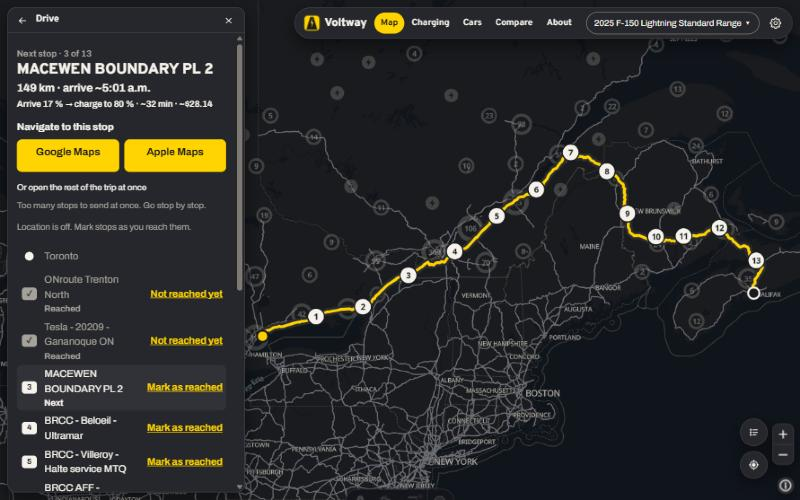
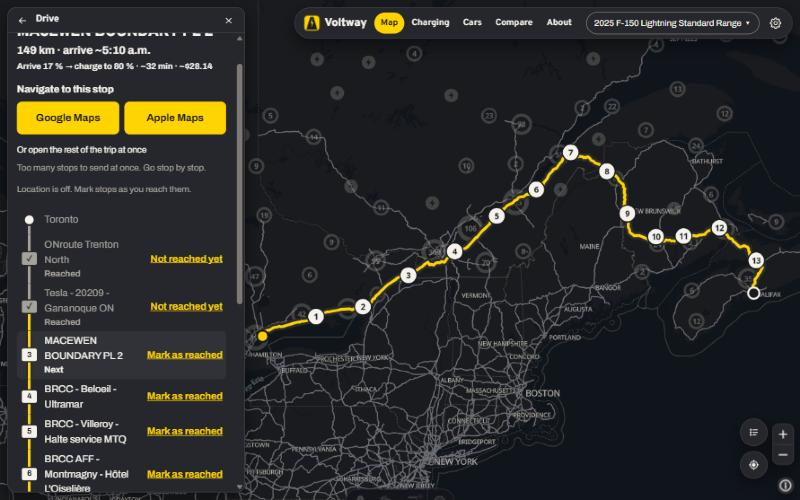
Phase 5: B75 charge past 80 % before a long stretch; QA fixes; driven line colour
- trip-plan: a stop charges just enough to reach the first charger past a stretch
  (or the destination) when 80 % would only allow a short hop or leave no reachable
  charger, up to 100 % (owner B75, 2026-11-18); tests and docs.
- Close route / Escape ends Drive; location note wording; whole-trip limits from
  WHOLE_TRIP_MAX; Drive follows price changes; resumed ticks trimmed; apostrophe.
- Driven stop line #A4A29A in both themes (was 1.8:1 in light).

diff --git a/src/lib/trip-plan.ts b/src/lib/trip-plan.ts
@@ -178,24 +178,47 @@ export function planTrip(input: PlanInput): TripPlan {
   const arrival = (c: Candidate, fromKm: number, soc: number) => socAt(fromKm, soc, c.alongKm) - flatDrop(c.offKm);
   const best = (list: Candidate[]) => list.sort((a, b) => b.usableKw - a.usableKw || b.alongKm - a.alongKm)[0];
 
+  /** The next stop from `pos` with `soc`: in the window near the route, then wider, then the last earlier charger. */
+  const choose = (pos: number, soc: number): { chosen: Candidate | undefined; pick: StopPick; hitKm: number } => {
+    const hitKm = kmWhere(pos, soc, threshold);
+    const ahead = candidates.filter((c) => c.alongKm > pos + MIN_PROGRESS_KM && c.alongKm <= hitKm);
+    const inWindow = (c: Candidate) => { const a = arrival(c, pos, soc); return a >= threshold && a <= threshold + WINDOW_SOC; };
+    const usable = (c: Candidate) => arrival(c, pos, soc) >= threshold && arrival(c, pos, soc) < target;
+    let chosen = best(ahead.filter((c) => c.offKm <= NEAR_KM && inWindow(c)));
+    if (chosen) return { chosen, pick: 'window', hitKm };
+    chosen = best(ahead.filter((c) => inWindow(c)));
+    if (chosen) return { chosen, pick: 'wide', hitKm };
+    return { chosen: ahead.filter(usable).sort((a, b) => b.alongKm - a.alongKm)[0], pick: 'earlier', hitKm };
+  };
+
+  /**
+   * How full to leave a stop (B75, owner 2026-11-18). Normally 80 % (Q-V2). But when 80 % wouldn't
+   * reach the next charger in the usual window (only a short hop to a nearby charger, or a stretch
+   * with no charger the car can reach), charge just enough to reach the first charger past that
+   * stretch, or the destination, with the threshold left, up to 100 %.
+   */
+  const departFrom = (c: Candidate): number => {
+    const back = flatDrop(c.offKm);
+    const after = target - back;
+    if (socAt(c.alongKm, after, route.totalKm) >= threshold) return target;
+    const next = choose(c.alongKm, after);
+    if (next.chosen && next.pick !== 'earlier') return target;
+    const beyond = candidates.filter((x) => x.alongKm > next.hitKm).sort((a, b) => a.alongKm - b.alongKm)[0];
+    const toKm = beyond ? beyond.alongKm : route.totalKm;
+    const need = threshold + socDrop(car.energy, kwhAt(toKm) - kwhAt(c.alongKm)) + back + (beyond ? flatDrop(beyond.offKm) : 0);
+    return Math.min(100, Math.max(target, Math.ceil(need)));
+  };
+
   const stops: TripStop[] = [];
   const gaps: ChargingGap[] = [];
   let pos = 0, soc = start, reachable = true;
 
   for (let guard = 0; guard < 200; guard++) {
     if (socAt(pos, soc, route.totalKm) >= threshold) break;
-    const hitKm = kmWhere(pos, soc, threshold);
-    const ahead = candidates.filter((c) => c.alongKm > pos + MIN_PROGRESS_KM && c.alongKm <= hitKm);
-    const inWindow = (c: Candidate) => { const a = arrival(c, pos, soc); return a >= threshold && a <= threshold + WINDOW_SOC; };
-    const usable = (c: Candidate) => arrival(c, pos, soc) >= threshold && arrival(c, pos, soc) < target;
-
-    let pick: StopPick = 'window';
-    let chosen = best(ahead.filter((c) => c.offKm <= NEAR_KM && inWindow(c)));
-    if (!chosen) { pick = 'wide'; chosen = best(ahead.filter((c) => inWindow(c))); }
-    if (!chosen) {
-      pick = 'earlier';
-      chosen = ahead.filter(usable).sort((a, b) => b.alongKm - a.alongKm)[0];
-    }
+    const next = choose(pos, soc);
+    const hitKm = next.hitKm;
+    let pick: StopPick = next.pick;
+    let chosen = next.chosen;
     if (!chosen) {
       // Charging gap: nothing reachable before the threshold. Mark it, then carry on to the next charger past it.
       pick = 'afterGap';
@@ -209,7 +232,8 @@ export function planTrip(input: PlanInput): TripPlan {
     const arriveSoc = arrival(chosen, pos, soc);
     if (arriveSoc <= 0) reachable = false;
     const fromSoc = Math.max(0, arriveSoc);
-    const r = calculateCharge({ points: car.curve.points, usableKwh: car.energy.batteryKwh, startSoc: fromSoc, endSoc: target, chargerKw: chosen.usableKw });
+    const departSoc = Math.max(departFrom(chosen), Math.min(100, Math.ceil(fromSoc)));
+    const r = calculateCharge({ points: car.curve.points, usableKwh: car.energy.batteryKwh, startSoc: fromSoc, endSoc: departSoc, chargerKw: chosen.usableKw });
     const detourKm = 2 * chosen.offKm;
     const p = chosen.station.properties;
     stops.push({
@@ -225,7 +249,7 @@ export function planTrip(input: PlanInput): TripPlan {
       adapter: chosen.adapter,
       teslaNetwork: !car.isTesla && p.nw === SUPERCHARGER_NETWORK,
       arriveSoc,
-      departSoc: target,
+      departSoc,
       chargeMin: r.minutes,
       energyKwh: r.energyKwh,
       overheadMin: TRIP.stopOverheadMin,
@@ -234,7 +258,7 @@ export function planTrip(input: PlanInput): TripPlan {
     });
     // Back to the route with the way back taken off.
     pos = chosen.alongKm;
-    soc = target - flatDrop(chosen.offKm);
+    soc = departSoc - flatDrop(chosen.offKm);
   }
 
   const arriveSoc = socAt(pos, soc, route.totalKm);

diff --git a/src/styles/global.css b/src/styles/global.css
@@ -712,18 +712,34 @@ html[data-motion="off"] .chip-plug .switch::after, html[data-motion="off"] .sett
 .drive-go, .drive-whole { display: grid; gap: 8px; }
 .drive-go-title { font-weight: 700; }
 .drive-apps { display: grid; grid-template-columns: repeat(auto-fit, minmax(130px, 1fr)); gap: 8px; }
-.drive-app { display: inline-flex; align-items: center; justify-content: center; min-height: 52px; font-size: 1.05rem; text-decoration: none; text-align: center; }
-.drive-whole .drive-app { min-height: 44px; font-size: 0.95rem; }
-.drive-list { list-style: none; margin: 0; padding: 0; display: grid; gap: 2px; }
-.drive-item { display: grid; grid-template-columns: 28px minmax(0, 1fr) auto; align-items: center; gap: 10px; min-height: 44px; padding: 2px 6px; border-radius: 8px; }
+/* Two-class selector: `a.btn` (inline-block) would otherwise win and leave the label at the top. */
+.drive-apps .drive-app { display: flex; align-items: center; justify-content: center; gap: 8px; min-height: 52px; padding: 0 12px; font-size: 1.05rem; line-height: 1.2; text-decoration: none; text-align: center; }
+.drive-whole .drive-apps .drive-app { min-height: 44px; font-size: 0.95rem; }
+.drive-app svg { flex: none; }
+.drive-list { list-style: none; margin: 0; padding: 0; display: grid; }
+.drive-item { position: relative; display: grid; grid-template-columns: 28px minmax(0, 1fr) auto; align-items: center; gap: 10px; min-height: 48px; padding: 4px 6px; border-radius: 8px; }
+/* The painted line joins the stops like a transit map (the trip list's road band and centre line):
+   each row carries its piece, from the row above's mark to the next one. Driven parts turn grey. */
+.drive-item::before { content: ""; position: absolute; left: 15px; top: 0; bottom: 0; width: 10px; border-radius: 2px;
+  background: linear-gradient(to right, var(--band) 0 3px, var(--paint) 3px 7px, var(--band) 7px 10px); }
+.drive-item:first-child::before { top: 50%; }
+.drive-item:last-child::before { bottom: 50%; }
+/* A row's top half leads into its mark, the bottom half out of it: grey once the stop at the far end is reached. */
+/* The band is dark in both themes, so the driven line is one light grey (#A4A29A on #2B2C30 is 6.4:1). */
+.drive-item { --line-driven: #A4A29A; --driven: linear-gradient(to right, var(--band) 0 3px, var(--line-driven) 3px 7px, var(--band) 7px 10px); --ahead: linear-gradient(to right, var(--band) 0 3px, var(--paint) 3px 7px, var(--band) 7px 10px); }
+.drive-item.done::before { background: var(--driven) top / 100% 50% no-repeat, var(--ahead) bottom / 100% 50% no-repeat; }
+.drive-item.done:has(+ .drive-item.done)::before, .drive-item:first-child:has(+ .drive-item.done)::before { background: var(--driven); }
+.drive-item:first-child:not(:has(+ .drive-item.done))::before { background: var(--ahead); }
+.drive-item > * { position: relative; z-index: 1; }
 .drive-item.next { background: var(--surface-2); }
 .drive-item.done .drive-item-name { color: var(--muted); }
 .drive-item-name { overflow-wrap: anywhere; }
 .drive-state { display: block; color: var(--muted); font-weight: 600; }
 .drive-item.next .drive-state { color: var(--text); }
-.drive-mark { justify-self: center; width: 14px; height: 14px; border-radius: 50%; background: var(--mark); }
+.drive-mark { justify-self: center; width: 14px; height: 14px; border-radius: 50%; background: var(--mark); border: 3px solid var(--surface); box-sizing: content-box; }
+.drive-item.next .drive-mark { border-color: var(--surface-2); }
 .drive-item.end .drive-mark { background: var(--surface); box-shadow: inset 0 0 0 4px var(--mark); }
-.drive-num { display: grid; place-items: center; width: 24px; height: 20px; border-radius: 5px; color: var(--surface); font-weight: 700; font-size: 0.8rem; font-variant-numeric: tabular-nums; }
+.drive-num { display: grid; place-items: center; width: 24px; height: 20px; border-radius: 5px; border-width: 2px; color: var(--surface); font-weight: 700; font-size: 0.8rem; font-variant-numeric: tabular-nums; }
 .drive-item.done .drive-num { background: var(--muted); }
 .drive-toggle { min-height: 44px; white-space: nowrap; }
 .drive-notes { display: grid; gap: 6px; }

diff --git a/src/components/DriveView.tsx b/src/components/DriveView.tsx
@@ -3,17 +3,17 @@
 // page is open. No turn-by-turn in Voltway (R7). Location is watched only while this view is open
 // and the page is visible, and is never stored; the screen is kept awake with a Wake Lock.
 
-import { useEffect, useMemo, useRef, useState } from 'react';
+import { useEffect, useRef, useState } from 'react';
 import { t } from '../i18n/t.ts';
 import type { TripEnd } from '../lib/place-search.ts';
 import type { Route } from '../lib/route-geo.ts';
 import type { TripPlan } from '../lib/trip-plan.ts';
 import type { RouteOptions } from '../lib/route-options.ts';
 import { nextTarget, tickReached, toTarget, type Fix } from '../lib/drive.ts';
-import { directionsUrls, wholeTripUrls } from '../lib/nav-links.ts';
+import { directionsUrls, WHOLE_TRIP_MAX, wholeTripUrls } from '../lib/nav-links.ts';
 import { pct } from '../lib/trip-format.ts';
 import { formatNumber, kmTo, type DistanceUnit } from '../lib/units.ts';
-import { chargeCost, chargePrice } from '../lib/price.ts';
+import { chargeCost, chargePrice, PRICE_EVENT } from '../lib/price.ts';
 import { COVERAGE } from '../config.ts';
 
 const money = new Intl.NumberFormat(COVERAGE.moneyLocale, { style: 'currency', currency: COVERAGE.currency });
@@ -95,7 +95,12 @@ export default function DriveView({ plan, route, from, to, unit, opts, reached, 
   const left = toTarget(plan, route, target, fix, now);
   const stop = target.kind === 'stop' ? plan.stops[target.index] : null;
   const dist = (km: number) => t(unit === 'mi' ? 'fmt.mi' : 'fmt.km', { value: formatNumber(Math.round(kmTo(km, unit))) });
-  const price = useMemo(chargePrice, []);
+  const [price, setPrice] = useState(chargePrice);
+  useEffect(() => {
+    const on = () => setPrice(chargePrice());
+    window.addEventListener(PRICE_EVENT, on);
+    return () => window.removeEventListener(PRICE_EVENT, on);
+  }, []);
   const nav = directionsUrls(target.lonLat, opts);
   const remaining = plan.stops.filter((_, i) => !reached[i]).map((s) => s.lonLat);
   const whole = remaining.length > 0 ? wholeTripUrls(remaining, end, opts) : null;
@@ -143,7 +148,7 @@ export default function DriveView({ plan, route, from, to, unit, opts, reached, 
             </div>
           ) : null}
           {(!whole.google || !whole.apple) && (
-            <p className="small muted">{!whole.google && !whole.apple ? t('drive.tooManyBoth') : !whole.google ? t('drive.tooManyGoogle') : t('drive.tooManyApple')}</p>
+            <p className="small muted">{!whole.google && !whole.apple ? t('drive.tooManyBoth') : !whole.google ? t('drive.tooManyGoogle', { max: WHOLE_TRIP_MAX.google }) : t('drive.tooManyApple', { max: WHOLE_TRIP_MAX.apple })}</p>
           )}
         </div>
       )}

diff --git a/tests/trip-plan.test.ts b/tests/trip-plan.test.ts
@@ -133,8 +133,9 @@ describe('gapDetails: a gap named by the places on either side', () => {
   });
 
   it('a gap after a stop starts at that stop', () => {
+    // S280 charges past 80 % to reach S560 (B75), so the gap is the 340 km after S560.
     const [g] = gapDetails(plan(900, [station(280, [ccs(150)]), station(560, [ccs(150)])]), 'Home', 'Away');
-    expect(g).toMatchObject({ leg: 1, fromName: 'S280', toName: 'S560', makesIt: true });
+    expect(g).toMatchObject({ leg: 2, fromName: 'S560', toName: 'Away', makesIt: true });
   });
 
   it('says when the car is not expected to make it', () => {
@@ -236,5 +237,29 @@ describe('QA fixes (3.15, 2026-11-16)', () => {
     // 60 % of 80 kWh at 100 kW ≈ 28.8 min, not the 200 kW curve's 14.4 min
     expect(p.stops[0].usableKw).toBe(100);
     expect(p.stops[0].chargeMin).toBeCloseTo(28.8, 0);
+  });
+});
+
+describe('planTrip: charging past 80 % before a long stretch (B75)', () => {
+  it('charges just enough to reach the next charger instead of a short hop', () => {
+    // At 80 % the car would only hop between S250 and S260; one stop there charges for S560 instead.
+    const p = plan(700, [station(250, [ccs(150)]), station(260, [ccs(150)]), station(560, [ccs(150)])]);
+    expect(p.stops).toHaveLength(2);
+    expect(p.stops[1].station.n).toBe('S560');
+    expect(p.stops[0].departSoc).toBeGreaterThan(TRIP.chargeToSoc);
+    expect(p.stops[0].departSoc).toBeLessThanOrEqual(92);
+    expect(p.stops[1].arriveSoc).toBeGreaterThanOrEqual(TRIP.defaultThresholdSoc);
+    expect(p.stops[1].departSoc).toBe(TRIP.chargeToSoc);
+  });
+
+  it('charges to what the last stretch needs, up to 100 %', () => {
+    const p = plan(900, [station(280, [ccs(150)]), station(560, [ccs(150)])]);
+    expect(p.stops.map((s) => s.departSoc)).toEqual([86, 100]);
+  });
+
+  it('keeps 80 % when the next window is reachable', () => {
+    const p = plan(800, [station(280, [ccs(150)]), station(500, [ccs(150)])]);
+    // S280 at 80 % reaches S500 in the window; S500 then charges for the last 300 km.
+    expect(p.stops.map((s) => s.departSoc)).toEqual([TRIP.chargeToSoc, 91]); // 75 % for 300 km + 15 %, the detour, rounded up;
   });
 });

diff --git a/src/components/ChargerMap.tsx b/src/components/ChargerMap.tsx
@@ -52,7 +52,7 @@ import { fastNear, NEAR_PLACE_KM, stationsInView, type Bounds, type ListItem } f
 import PlaceField, { loadPlaces } from './PlaceField.tsx';
 import type { PlaceSearch, TripEnd } from '../lib/place-search.ts';
 import { readTripLink, stationEnd, writeTripLink } from '../lib/trip-link.ts';
-import { loadDrive } from '../lib/drive.ts';
+import { clearDrive, loadDrive } from '../lib/drive.ts';
 import { readRecent } from '../lib/recent-destinations.ts';
 import StationPanel from './StationPanel.tsx';
 import RoutePanel from './RoutePanel.tsx';
@@ -655,6 +655,7 @@ export default function ChargerMap({ cars = [] }: { cars?: IndexEntry[] }) {
   }, [T.start]); // eslint-disable-line react-hooks/exhaustive-deps
   const closeRoute = () => {
     clearTripParams();
+    clearDrive(); // closing the trip (button or Escape) ends Drive for this tab
     // B69: the camera goes back to where it was before the trip, while the line draws back.
     const back = preTripView.current;
     preTripView.current = null;

diff --git a/src/components/RoutePanel.tsx b/src/components/RoutePanel.tsx
@@ -83,7 +83,7 @@ export default function RoutePanel({ trip: T, cars, myCar, search, selectedStop,
     setEditing(false);
     setSheetOpen(false);
     // A new plan starts Drive over, unless this tab is coming back to it.
-    if (resume.current) { setReached(resume.current); setDriving(true); resume.current = null; }
+    if (resume.current) { setReached(resume.current.slice(0, plan?.stops.length ?? 0)); setDriving(true); resume.current = null; }
     else { setDriving(false); setReached([]); clearDrive(); }
   }, [planKey]);
   const openDrive = () => morph(() => { setDriving(true); saveDrive({ trip, reached }); }, 'forward', 'left');

diff --git a/docs/design/gaps-and-questions.md b/docs/design/gaps-and-questions.md
@@ -150,7 +150,7 @@ The "all-in-one" idea only works if these connections are real.
 | ID | Question | Priority | Notes |
 |----|----------|----------|-------|
 | Q-V1 | ~~**Is accuracy still the headline pitch?**~~ | ✅ | **Resolved:** accuracy applies to the vehicle data. The map and routing stay simple. |
-| Q-V2 | ~~**What happens at each charging stop?**~~ | ✅ | **Resolved:** charge to 80% in v1. A user-set target comes later. |
+| Q-V2 | ~~**What happens at each charging stop?**~~ | ✅ | **Resolved:** charge to 80% in v1 (more before a long stretch with few chargers, B75 2026-11-18). A user-set target comes later. |
 | Q-V3 | ~~**How smart is stop selection?**~~ | ✅ | **Resolved:** the simple approach (threshold, then a nearby fast charger). Smart selection may come later as a toggle. |
 | Q-V4 | ~~**Winter in v1?**~~ | ✅ | **Resolved:** out of scope for v1. Later: a rough % range loss from temperature and battery chemistry. |
 
@@ -230,6 +230,7 @@ The "all-in-one" idea only works if these connections are real.
 | B72 | ~~**Drive mode: hand the trip to Google Maps and Apple Maps**~~ | ✅ | **Decided by the owner (2026-11-17):** once a trip is planned, a **Drive** view shows the next charging stop (name, distance, arrival time, the charge planned there) and the stop list with progress, with big **Navigate to this stop** buttons for Google Maps and Apple Maps (**leg by leg**, the default). The **whole trip at once** is offered only when the remaining stops fit each app's waypoint limit. While the page is open the browser's location ticks off reached stops (no background tracking) and a Wake Lock keeps the screen on. **No turn-by-turn in Voltway (R7 unchanged)**; only the planned stops travel to the map apps, not Voltway's charger pins. Narrows B53's "later Drive mode". Plan: [DESIGN-5.md](../plan/DESIGN-5.md) §1; the owner approved (2026-11-17) Apple's documented unified Maps URLs (also for the station panel), whole-trip limits Google ≤ 3 / Apple ≤ 9 remaining stops, and keeping the Drive trip in `sessionStorage` for the open tab only (an exception to B62). Updates [route-planner.md](route-planner.md). |
 | B73 | ~~**Route options: avoid tolls, avoid highways**~~ | ✅ | **Decided by the owner (2026-11-17)**, after a viability check of the ORS docs: Settings gets **Avoid tolls** and **Avoid highways** switches (off by default, kept in the browser). They travel through `/api/route` (validated by the function) to ORS `avoid_features` (`tollways`, `highways` = motorways). Charging stops still come from chargers near the route line. Apple Maps links carry the same avoid choices; Google's URL API has no avoid option. Plan: [DESIGN-5.md](../plan/DESIGN-5.md) §2. Updates [route-planner.md](route-planner.md). |
 | B74 | ~~**Keep trips within Canada**~~ | ✅ | **Decided by the owner (2026-11-17):** Settings shows **Stay in Canada** as always on (disabled; it can't be turned off for now). Every route is asked with ORS `avoid_borders: "all"`, and a start or destination outside Canada gets "Trips outside Canada aren't supported yet" instead of a trip, checked by the function against a Canada outline before any ORS call (Natural Earth Admin 0, public domain, approved 2026-11-17). Address search was already limited to Canada (`boundary.country=CA`). Plan: [DESIGN-5.md](../plan/DESIGN-5.md) §2.3. Updates [route-planner.md](route-planner.md). |
+| B75 | ~~**Charge past 80 % before a long stretch**~~ | ✅ | **Decided by the owner (2026-11-18):** a stop still charges to **80 %** by default, but when 80 % would only reach a short hop to a nearby charger, or would leave a stretch with no charger the car can reach, it charges **just enough to reach the first charger past that stretch (or the destination) with the arrival minimum left**, up to 100 %. Prompted by Hamilton → BC in a 2025 Polestar 2: two stops in a row (78 → 80 % then 80 → 4 %) instead of one stop to about 95 %. Changes Q-V2. Updates [route-planner.md](route-planner.md) §4, [vision.md](vision.md), [DESIGN-5.md](../plan/DESIGN-5.md) §6. |
 | B12 | ~~**Branding: Canadian or worldwide?**~~ | ✅ | **Decided by the owner (2026-11-16):** the product brand and copy are **market-neutral**, because the aim is to open up worldwide later. The **data stays Canadian for now** (NRCan list and ratings), and the site says so openly in a coverage note on every page. The current market is a single setting in the app. Source badges keep naming the regulator ("Official (Canada)"), since that is source transparency, not branding. Updates [vision.md](vision.md) and [overview.md](overview.md) §1. |
 | B11 | ~~**One screen per car, or separate pages per variant?**~~ | ✅ | **Decided by the owner (2026-11-16):** a **Charging tab** (the home page) modeled on better-dcfc-calculator: Make → Model → Year → Variant → Trim dropdowns with key figures, curve viewer, specs, trims and sources on one screen; URL updates (`/charging?car=…`). A **Cars tab** lists make → model accordions; picking a variant opens it in Charging. Separate car pages removed; old links redirect. See [database-ui.md](database-ui.md) §2, [user-flows.md](user-flows.md) §5. |
 | B10 | ~~**Usable battery unknown** (many manufacturers publish one "battery capacity" without saying gross or usable)~~ | ✅ | **Approved (2026-11-16):** when usable kWh is missing, charging maths uses the gross (total) kWh and the results are marked estimated (shown with "~", like estimated curves), with a note on the car page. See [charging-curve-viewer.md](charging-curve-viewer.md) §3. |

diff --git a/docs/plan/reports/ui-check-5.md b/docs/plan/reports/ui-check-5.md
@@ -65,3 +65,13 @@ Console: no JS errors; only network entries (stale connection resets and the two
 - (a) PASS: trip on screen, toggle Avoid tolls on: trip view returns ("Drive" button) with `/api/route?...&avoid=tolls` (2 performance entries, both transferSize 0, i.e. browser-cache hits: the combo had been fetched earlier in this browser session, so no real server call); toggle back off: trip returns, 2 more entries without `avoid` (cache hits). Note: cached combos show a pair of entries per change; a never-fetched combo showed a single entry in the earlier run. Harmless, but not literally "one".
 - (b) PASS: trip shown > back arrow ("Return to plan") > toggle an option: no new request, button reads "Plan trip", panel stays on the form, summary "Avoiding tolls · Change".
 - Console: no JS errors (network entries only). Storage cleared, viewport reset to desktop dark.
+
+## Re-check 3 (centred app buttons, painted route line; 1280 and 375, dark and light)
+Cars: F-150 Lightning Standard Range 2025 (Toronto > Halifax, 13 stops, 2 stops marked reached) and Tesla Model 3 (Toronto > Montreal). Route calls: all browser-cached (0 new server calls).
+- Button labels PASS: `.drive-app` is display:flex; text box centre vs button centre: next-stop buttons (52 px tall) dy -0.58 px, dx 0 to -0.01; whole-trip buttons (44 px tall) dy -0.13 px, dx 0. Same at 1280 and 375, dark and light. Within 1 px.
+- Line continuity PASS: rows touch with no gaps (gap 0 between all 15 .drive-item rows, 1280 and 375); each row's `::before` is absolute, left 15 px, width 10 px, centred on the mark (offset 0 px); first row's line starts at the start mark's centre (top 24 px), the last ends at the destination mark's centre (bottom 24 px, mark centre = row centre). Marks and text are position:relative, z-index 1 (drawn above the line), marks have a 3 px ring in the surface colour.
+- Greying PASS: after marking stops 1 and 2: rows = start(D) stop1(D) stop2(D) stop3(next)...: start>1 and 1>2 grey (driven gradient), stop2's row is grey above its mark and yellow below (2 gradients), 2>3 and onward yellow. Seen in all four screenshots; dark looks right (grey #A4A29A line on a dark band).
+- ISSUE 6 (LOW-MEDIUM, light theme only): the driven (grey) segments use `--muted` #55544E on the dark band #2B2C30 = about 1.8:1, so the ticked part of the line is hard to see in light mode (it reads as an almost black bar; the yellow part is clear). Suggest a lighter grey for the driven segment in light theme (e.g. the dark theme's #A4A29A, 5:1 on the band). The ticks and "Reached" text still carry the state, so not blocking.
+- No horizontal overflow (375/375, 1280/1280). On the half-open phone sheet (324 px of scroll area) the buttons and list cannot both show; the full-height sheet (tap the handle) shows both.
+- Still seen: the dark map-key pill overlapping the bottom of the sheet at 375 (issue 5 above).
+Screenshots overwritten in docs/plan/reports/phase5/: drive-375-dark.jpg, drive-1280-dark.jpg, drive-375-light.jpg (each with stops 1 and 2 reached; 375 versions use the expanded sheet scrolled to show the buttons and the first list rows); new drive-list-375-dark.jpg (end of list down to the destination mark). Storage cleared, viewport reset to desktop dark.

diff --git a/docs/plan/CHECKLIST.md b/docs/plan/CHECKLIST.md
@@ -349,5 +349,6 @@ Small items that make a first visit read well. Each ships on its own PR.
 - [x] **[5] 5.8 Location, wake lock, coming back** — `DriveView.tsx`, `drive.ts`. Done when: location is watched only while Drive is open and the page visible (stubbed checks); refused location shows the quiet line; a wake lock is held while visible, re-requested on return and released on exit (stubbed API); a reload with Drive open reopens Drive with the same progress; Exit clears it. *(Done 2026-11-18: ui-check-5 checks 6–8 and re-check 2: stubbed fix ticks stop 1; hidden page clears the watch, visible restarts it; location refused shows the quiet line; wake lock requested on open and on visible, released on back and close, no error without the API; reload reopens Drive with the same ticks (also with the trip link in the address, after a fix); back arrow clears voltway.drive; no start place in localStorage)*
 
 ## 5c: Finish
-- [ ] **[5] 5.9 Checks, screenshots, owner phone test** — Done when: tsc, astro check, vitest, build and contrast-pairs pass; dark-first PNGs at 375 px and desktop are sent to the owner; the owner has opened a stop in Google Maps and Apple Maps from their phone.
-- [ ] **[5] 5.10 Independent QA** — `qa-reviewer` against `QA.md` Phase 5. Done when: no blockers remain.
+- [ ] **[5] 5.9 Checks, screenshots, owner phone test** — Done when: tsc, astro check, vitest, build and contrast-pairs pass; dark-first PNGs at 375 px and desktop are sent to the owner; the owner has opened a stop in Google Maps and Apple Maps from their phone. *(2026-11-18: tsc, astro check, vitest (666), build and contrast-pairs pass; dark screenshots at 375 and 1280 sent to the owner. **Still to do:** owner opens a stop in Google Maps and Apple Maps from their phone after deploy)*
+- [x] **[5] 5.11 Charge past 80 % before a long stretch (B75)** — `src/lib/trip-plan.ts`, `tests/trip-plan.test.ts`, `trip.assumptions`. Done when: unit tests show one stop charging past 80 % instead of a short hop, the last stop charging for the final stretch, and 80 % kept when the next window is reachable; a real long trip shows no back-to-back stop charging only a few %. *(Done 2026-11-18: B75 block in tests/trip-plan.test.ts (one stop to 91 % instead of a short hop; 86 / 100 before the last stretch; 80 % kept when the next window is reachable); 666 tests pass. Owner to confirm Hamilton → BC in a 2025 Polestar 2 on the deployed site (QA QD16))*
+- [x] **[5] 5.10 Independent QA** — `qa-reviewer` against `QA.md` Phase 5. Done when: no blockers remain. *(Done 2026-11-18: qa-reviewer PASS WITH ISSUES, no blockers; should-fix 1 and 3 fixed, 2 recorded as a known limit; minors 4, 6, 9, 11 fixed, the rest logged (QA.md Phase 5 results))*

diff --git a/docs/plan/QA.md b/docs/plan/QA.md
@@ -478,9 +478,17 @@ Read `docs/plan/DESIGN-5.md` and B72–B74 in `docs/design/gaps-and-questions.md
 | QD13 | Wake lock | Stub `navigator.wakeLock`: requested on open, again on visible, released on exit | API missing: no error |
 | QD14 | Coming back | Reload with Drive open: Drive and progress return; Exit clears it; nothing in localStorage holds the start | — |
 | QD15 | Words, accessibility, looks | No hard-coded strings; axe clean; dark and light at 375 px and desktop; 44 px targets | Long station names wrap |
+| QD16 | Charge past 80 % (B75) | `npx vitest run tests/trip-plan.test.ts` (B75 block); plan Hamilton ON → Vancouver BC with a 2025 Polestar 2 and read each stop's "charge to" | No stop charges only a few % right after another; a stop before a long stretch shows more than 80 %, never over 100 %; ordinary stops still 80 % |
 
 ## Phase 5 results
 
 | ID | Pass / Fail | Notes |
 |----|-------------|-------|
-| QD1–QD15 | | |
+| QD1–QD15 | Pass with issues | qa-reviewer 2026-11-18 + site-ui-checker (docs/plan/reports/ui-check-5.md, re-checks 1–3). No blockers. |
+| Should-fix 1 | Fixed | Escape / Close route now clears `voltway.drive` (`closeRoute` in ChargerMap.tsx). |
+| Should-fix 2 | Known limit | The outline check lets a few US spots right at the border through (downtown Detroit, Port Huron, Niagara Falls NY, Sumas WA, Lubec ME) and Greenland north of 60.5°. ORS still avoids every border, and the map has only Canadian chargers, so such a trip fails or shows a gap rather than routing through the US. A US polygon check is a follow-up. |
+| Should-fix 3 | Fixed | `drive.noteLocation` now says "Location is used only while this page is open."; `drive.locationOn` shortened so it doesn't repeat. |
+| Minor 4, 6, 9, 11 | Fixed | Resumed ticks trimmed to the stop count; whole-trip limits come from `WHOLE_TRIP_MAX` ({max}); Drive follows price changes (PRICE_EVENT); curly apostrophe. |
+| Minor 5, 7, 8, 10, 12 | Open (logged) | Option change mid-Drive resets ticks; Drive shown on unreachable plans; map dot stays after Drive; points outside AREA give 400 not 422; map key overlap at 375 (pre-existing). |
+| Light theme driven line | Fixed | Driven segment is now #A4A29A on the #2B2C30 band in both themes (6.4:1; was 1.8:1 in light). |
+| QD16 | Pass (unit) | B75 block in tests/trip-plan.test.ts: one stop charges to 91 % instead of a short hop; last stop charges for the final stretch (86 / 100); 80 % kept when the next window is reachable. Owner to confirm Hamilton → BC on the deployed site. |

diff --git a/docs/plan/DESIGN-5.md b/docs/plan/DESIGN-5.md
@@ -105,3 +105,6 @@ Turn-by-turn, re-planning during the drive, live battery, background tracking, a
 2. Whole-trip limits: Google ≤ 3 remaining stops, Apple ≤ 9. ✅
 3. `sessionStorage` (tab only) for Drive, an exception to B62. ✅
 4. Natural Earth Canada outline as a new data source for the "outside Canada" check. ✅
+
+## 6. Charging past 80 % before a long stretch (B75, owner 2026-11-18)
+`src/lib/trip-plan.ts`: the stop choice is now a pure `choose(pos, soc)`. Before charging at a stop, `departFrom` looks one step ahead from 80 %: if the destination is reachable, or the next stop would be in the usual window (near or wide), it keeps 80 %. If the next stop would only be an "earlier" short hop, or there is none, it charges to reach the first charger past the car's reach (or the destination) with the threshold left, plus both detours, rounded up and capped at 100 %. A stop never departs below its arrival level. Each stop shows its own `departSoc`; the assumptions line says "more before a long stretch with few chargers".

diff --git a/docs/design/vision.md b/docs/design/vision.md
@@ -106,7 +106,7 @@ Each band **includes its upper edge**, so a charger exactly on an edge goes in t
 Similar to ABRP, but deliberately simpler.
 
 - **Stop selection (Q-V3) ✅:** drive until the battery reaches the **user-set threshold (default ~15%)**, then stop at a suitable **Level 3** charger near that point. Smarter stop choice (to save total trip time) could come later as an optional toggle.
-- **Charging at each stop (Q-V2) ✅:** charge to **80%** and continue. Letting users set this target comes later.
+- **Charging at each stop (Q-V2) ✅:** charge to **80%** and continue (more before a long stretch with few chargers, B75). Letting users set this target comes later.
 - **Charger type:** v1 only uses **Level 3** chargers for stops.
 - Range estimates should eventually use trim features (heat pump, wheels) from Part 1.
 
